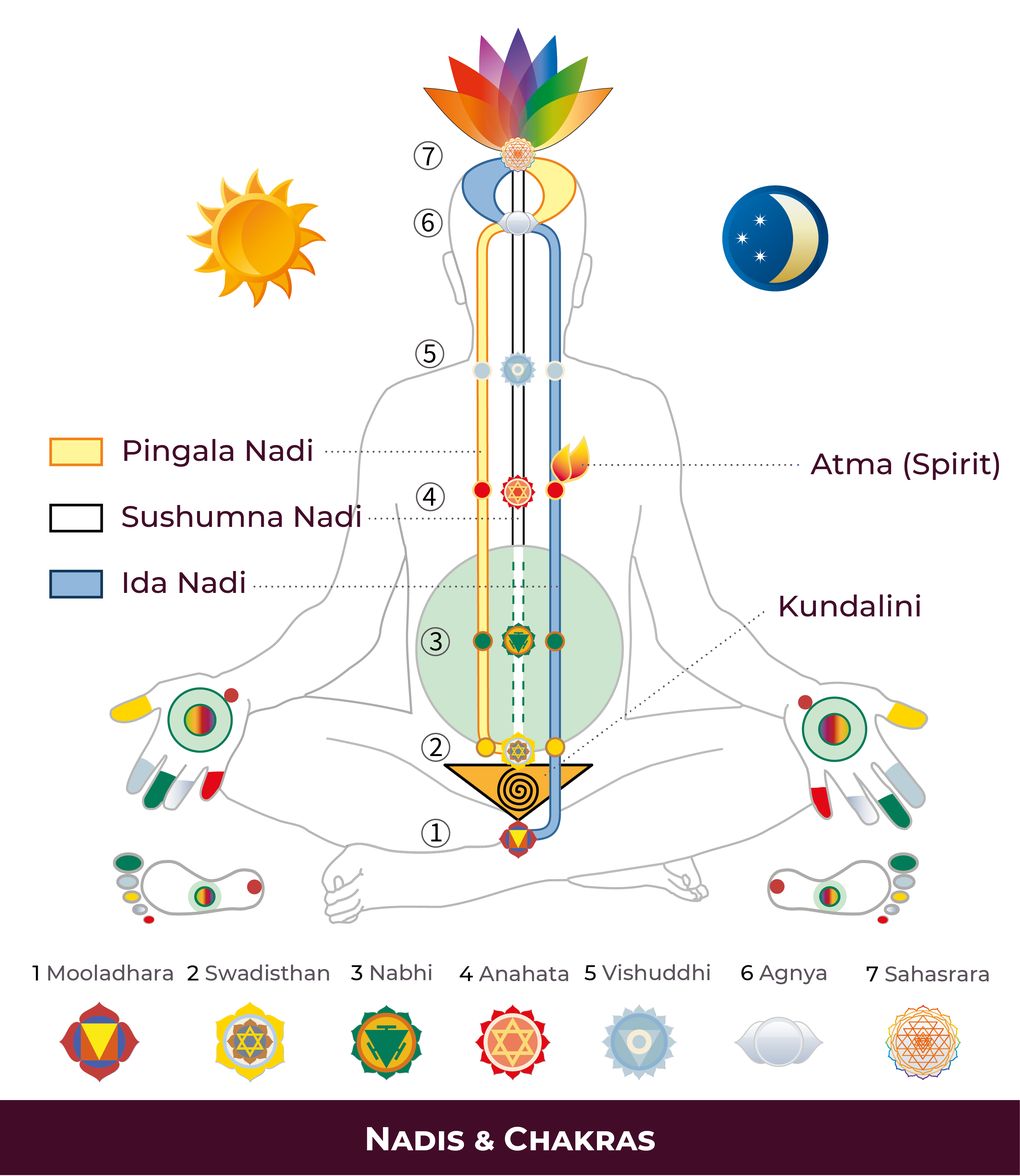
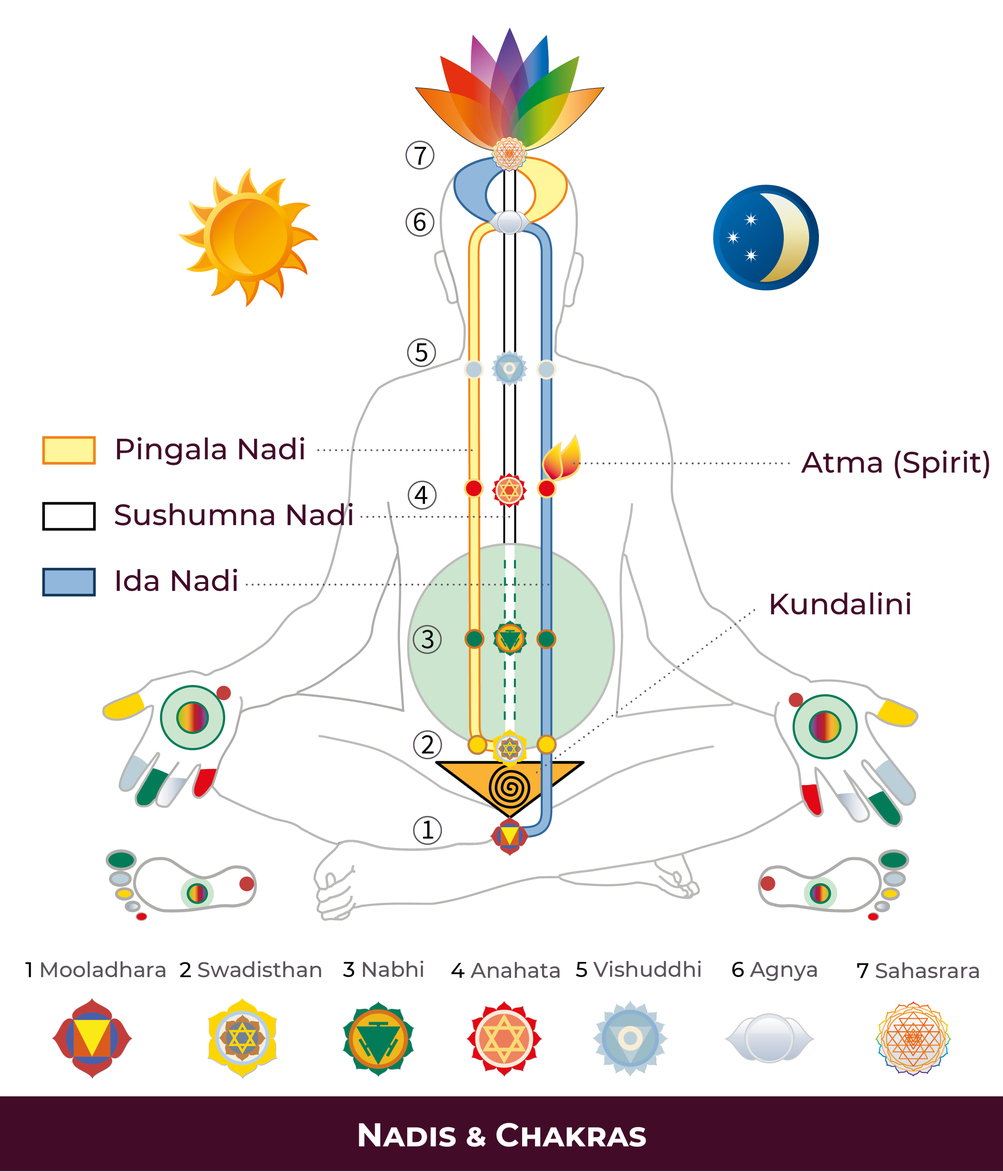
update meditation page

diff --git a/src/app/(auth)/meditate/page.tsx b/src/app/(auth)/meditate/page.tsx
@@ -22,22 +22,19 @@ const content = {
       ['Join Guided Online Meditation', 'Experience live and recorded guided meditations to deepen your practice.', 'Start Guided Meditation'],
       ['21 Days Meditation Path', 'Deepen your meditation experience through a structured 21-day journey in the We Meditate app.', ''],
     ],
-    stepsHeader: ['Daily Meditation', '10 simple steps to settle into meditation', 'Follow the flow gently. Each step is short, structured, and easy to return to, so the practice feels calm rather than complicated.'],
+    stepsHeader: ['Balancing Our Channels', 'Clear the subtle system through three guided balancing steps', 'Use these three simple balancing practices to settle the left, right, and central channels before meditation.'],
     steps: [
-      ['Prepare your space', 'Choose a quiet place where you can sit undisturbed for 10 minutes.'],
-      ['Sit comfortably', 'Remove your shoes and sit on a chair or on the floor in a natural posture.'],
-      ['Open your hands', 'Rest both hands on your lap with palms facing upward and soften your shoulders.'],
-      ['Settle the breath', 'Take a few deep breaths, then allow your breathing to return to normal.'],
-      ['Use affirmations gently', 'If it helps, use simple affirmations softly without forcing the experience.'],
-      ['Lift attention upward', 'Keep your attention above the head and let thoughts pass without following them.'],
-      ['Release mental activity', 'If thoughts continue, say inwardly: not this thought, or I forgive everyone.'],
-      ['Notice the cool breeze', 'Observe any gentle cool sensation on the hands or above the fontanel area.'],
-      ['Rest in stillness', 'When the attention settles, leave it there and enjoy the silence.'],
-      ['Practice every day', 'Meditate daily for 10 minutes to deepen and stabilize the experience.'],
+      ['Clearing the left channel', 'Cleaning the left channel helps remove the tendency to become over-emotional and dwell in the past.', '/meditation-steps/1.png', 'Keep the left hand on the lap, and the right hand on the earth. Keep your attention on the left palm.', 'Affirmation: Mother please clear my left channel and remove all negativities through Mother Earth.'],
+      ['Clearing the right channel', 'Cleaning the right side helps reduce over-planning, mental strain, and stressed thoughts.', '/meditation-steps/2.png', 'Keep the right hand on the lap, and bend the left arm toward the sky. Keep your attention on the right palm.', 'Affirmation: Mother please clear my right channel and remove all negativities through Sky element.'],
+      ['Clearing the central channel', 'Once both channels are cleansed, it becomes easier to remain in meditation and settle into the center.', '/meditation-steps/3.png', 'Keep both hands on the lap and place your attention on the top of the head, the Sahasrara.', 'Affirmation: Mother please give us the state of thoughtless awareness and let us be in joy.'],
     ],
-    subtleHeader: ['Subtle Balance', 'Balance the subtle system and return to the present', 'Thoughts often move toward the past or the future. These balancing techniques help you settle back into the center and support a steadier meditation.'],
-    left: ['Left-side balancing', 'When emotions feel heavy', 'Hold the left hand toward a candle with the palm facing upward.', 'Place the right hand naturally toward the earth.', 'Use this when you feel lethargic, nostalgic, lonely, or over-focused on the past.'],
-    right: ['Right-side balancing', 'When the mind feels overactive', 'Hold the right hand toward a candle with the palm facing upward.', 'Bend the left arm with fingers pointing upward and the palm facing backward.', 'Use this when you feel tense, over-planned, rushed, aggressive, or caught in future thinking.'],
+    subtleHeader: ['Subtle Balance', 'Understand the subtle system', 'The subtle system image below shows the channels and chakras that support meditation, balance, and inner ascent.'],
+    subtleChannels: [
+      ['Left Channel', 'The left channel governs our emotions, desires, and our connection with the past. By balancing this channel we can remove any weight from our past which is holding us back, allowing us to feel motivated and to believe in ourselves.'],
+      ['Right Channel', 'The right channel corresponds to all of our thoughts, actions and our connection with the future. By cleansing this channel we can calm down our thoughts and remove any worries about the future.'],
+      ['Central Channel', 'The central channel is the path of balance and ascent. When we raise our Kundalini through this channel we are guided towards a higher awareness which facilitates our spiritual evolution and allows us to reach a blissful state which is beyond our mental understanding.'],
+    ],
+    resourcesHeader: ['Practice Resources', 'Continue with guided support and home practice', 'Use these resources to keep your meditation consistent, go deeper with guided sessions, and stay connected to the practice day by day.'],
     stores: ['Download on App Store', 'Get it on Google Play'],
   },
   te: {
@@ -54,22 +51,19 @@ const content = {
       ['ఆన్లైన్ మార్గదర్శిత ధ్యానంలో చేరండి', 'మార్గదర్శిత ప్రత్యక్ష మరియు రికార్డ్ చేయబడిన ధ్యానాలతో మీ సాధనను లోతుగా చేయండి.', 'మార్గదర్శిత ధ్యానం ప్రారంభించండి'],
       ['21 రోజుల ధ్యాన మార్గం', 'We Meditate యాప్లో రూపొందించిన 21 రోజుల ప్రణాళిక ద్వారా మీ ధ్యానాన్ని మరింత లోతుగా అనుభవించండి.', ''],
     ],
-    stepsHeader: ['నిత్య ధ్యానం', 'ధ్యానంలో స్థిరపడేందుకు 10 సులభ దశలు', 'మృదువుగా ప్రవాహాన్ని అనుసరించండి. ప్రతి దశ చిన్నది, స్పష్టమైనది, మళ్లీ మళ్లీ సులభంగా ఆచరించదగినది.'],
+    stepsHeader: ['మన నాళాల సమతుల్యత', 'మూడు మార్గదర్శిత దశలతో సూక్ష్మ వ్యవస్థను శుభ్రపరచండి', 'ధ్యానం ముందు ఎడమ, కుడి, మధ్య నాళాలను సమతుల్యం చేసేందుకు ఈ మూడు సులభమైన పద్ధతులను ఉపయోగించండి.'],
     steps: [
-      ['మీ స్థలాన్ని సిద్ధం చేసుకోండి', '10 నిమిషాలు అంతరాయం లేకుండా కూర్చునే ప్రశాంత ప్రదేశాన్ని ఎంచుకోండి.'],
-      ['సౌకర్యంగా కూర్చోండి', 'చెప్పులు తీసి, కుర్చీపై లేదా నేలపై సహజమైన భంగిమలో కూర్చోండి.'],
-      ['చేతులను తెరవండి', 'రెండు చేతులను ఒడిలో అరచేతులు పైకి ఉండేలా ఉంచి భుజాలను సడలించండి.'],
-      ['శ్వాసను స్థిరపరచండి', 'కొన్ని లోతైన శ్వాసలు తీసుకుని ఆపై శ్వాసను సహజ స్థితికి వదలండి.'],
-      ['ఆఫర్మేషన్లు మృదువుగా వాడండి', 'అవసరమైతే బలవంతం చేయకుండా సరళమైన ఆఫర్మేషన్లను మృదువుగా చెప్పండి.'],
-      ['ధ్యాసను పైకి తీసుకెళ్ళండి', 'తలపై భాగంపై ధ్యాస ఉంచి ఆలోచనలు వచ్చినా వాటిని అనుసరించకుండా విడిచేయండి.'],
-      ['మానసిక చలనం విడదీయండి', 'ఆలోచనలు కొనసాగితే మనసులోనే: ఈ ఆలోచన కాదు, లేదా నేను అందరినీ క్షమిస్తున్నాను అని చెప్పండి.'],
-      ['చల్లని గాలి గమనించండి', 'చేతులపై లేదా తలపై మృదువైన చల్లని అనుభూతి ఉందో గమనించండి.'],
-      ['నిశ్చలతలో నిలిచి ఉండండి', 'ధ్యాస స్థిరపడినప్పుడు అదే స్థితిలో ఉండి ఆ నిశ్శబ్దాన్ని ఆస్వాదించండి.'],
-      ['ప్రతి రోజు సాధన చేయండి', 'ధ్యాన అనుభవం లోతుగా, స్థిరంగా మారేందుకు ప్రతి రోజు 10 నిమిషాలు సాధన చేయండి.'],
+      ['ఎడమ నాళం శుభ్రపరచడం', 'ఎడమ నాళాన్ని శుభ్రపరచడం వల్ల అధిక భావోద్వేగం మరియు గతంలోనే ఉండిపోవడం తగ్గుతుంది.', '/meditation-steps/1.png', 'ఎడమ చేయిని ఒడిలో ఉంచి, కుడి చేయిని భూమి వైపు ఉంచండి. ఎడమ అరపై ధ్యాస ఉంచండి.', 'ఆఫర్మేషన్: మాతాజీ, దయచేసి నా ఎడమ నాళాన్ని శుభ్రపరచి మాతృభూమి ద్వారా అన్ని ప్రతికూలతలను తొలగించండి.'],
+      ['కుడి నాళం శుభ్రపరచడం', 'కుడి వైపు శుభ్రపరచడం వల్ల అధిక ప్రణాళిక, ఒత్తిడిగల ఆలోచనలు తగ్గుతాయి.', '/meditation-steps/2.png', 'కుడి చేయిని ఒడిలో ఉంచి, ఎడమ చేయిని పైకి వంచి ఆకాశం వైపు ఉంచండి. కుడి అరపై ధ్యాస ఉంచండి.', 'ఆఫర్మేషన్: మాతాజీ, దయచేసి నా కుడి నాళాన్ని శుభ్రపరచి ఆకాశ తత్వం ద్వారా అన్ని ప్రతికూలతలను తొలగించండి.'],
+      ['మధ్య నాళం శుభ్రపరచడం', 'ఈ రెండు నాళాలు శుభ్రమైన తర్వాత ధ్యాన స్థితిలో ఉండటం మరింత సులభమవుతుంది.', '/meditation-steps/3.png', 'రెండు చేతులను ఒడిలో ఉంచి, మీ ధ్యాసను తల పైభాగమైన సహస్రారంపై ఉంచండి.', 'ఆఫర్మేషన్: మాతాజీ, దయచేసి మాకు నిర్విచార చైతన్య స్థితిని ప్రసాదించి ఆనందంలో నిలిపించండి.'],
     ],
-    subtleHeader: ['సూక్ష్మ సమతుల్యత', 'సూక్ష్మ వ్యవస్థను సమతుల్యం చేసి వర్తమానానికి తిరిగి రండి', 'ఆలోచనలు గతం లేదా భవిష్యత్తు వైపు కదులుతుంటాయి. ఈ బ్యాలెన్సింగ్ పద్ధతులు మిమ్మల్ని మళ్లీ మధ్యలోకి తీసుకురావడంలో సహాయపడతాయి.'],
-    left: ['ఎడమ వైపు బ్యాలెన్సింగ్', 'భావోద్వేగాలు భారంగా అనిపించినప్పుడు', 'ఎడమ చేయిని అరచేతి పైకి ఉంచి దీపానికి ఎదురుగా పట్టండి.', 'కుడి చేయిని సహజంగా భూమి వైపు ఉంచండి.', 'నిస్సత్తువ, గతస్మరణ, ఒంటరితనం, లేదా గతంపై ఎక్కువ ధ్యాస ఉన్నప్పుడు ఇది సహాయపడుతుంది.'],
-    right: ['కుడి వైపు బ్యాలెన్సింగ్', 'మనసు అతిగా క్రియాశీలంగా ఉన్నప్పుడు', 'కుడి చేయిని అరచేతి పైకి ఉంచి దీపానికి ఎదురుగా పట్టండి.', 'ఎడమ చేయిని మడిచి వేళ్లు పైకి, అరచేతి వెనక్కి ఉండేలా ఉంచండి.', 'తీవ్ర ఒత్తిడి, అతిగా ప్రణాళిక, తొందర, దూకుడు, లేదా భవిష్యత్ ఆలోచనల్లో ఇరుక్కున్నప్పుడు ఇది ఉపయోగపడుతుంది.'],
+    subtleHeader: ['సూక్ష్మ సమతుల్యత', 'సూక్ష్మ వ్యవస్థను అర్థం చేసుకోండి', 'క్రింద ఉన్న సూక్ష్మ వ్యవస్థ చిత్రం ధ్యానం, సమతుల్యత, మరియు అంతరారూఢికి మద్దతు ఇచ్చే నాళాలు మరియు చక్రాలను చూపిస్తుంది.'],
+    subtleChannels: [
+      ['ఎడమ నాళం', 'ఎడమ నాళం మన భావోద్వేగాలు, కోరికలు, మరియు గతంతో ఉన్న అనుబంధాన్ని నియంత్రిస్తుంది. ఈ నాళాన్ని సమతుల్యం చేయడం ద్వారా మనల్ని వెనక్కి లాగుతున్న గతభారాన్ని తొలగించి, మళ్లీ ఉత్సాహంతో ముందుకు సాగేందుకు, మనపై నమ్మకం పెంచుకునేందుకు సహాయపడుతుంది.'],
+      ['కుడి నాళం', 'కుడి నాళం మన ఆలోచనలు, చర్యలు, మరియు భవిష్యత్తుతో ఉన్న అనుబంధాన్ని సూచిస్తుంది. ఈ నాళాన్ని శుభ్రపరచడం ద్వారా ఆలోచనలను ప్రశాంతపరచి, భవిష్యత్తుపై ఉన్న ఆందోళనలను తగ్గించవచ్చు.'],
+      ['మధ్య నాళం', 'మధ్య నాళం సమతుల్యత మరియు ఆరూఢి మార్గం. ఈ నాళం ద్వారా మన కుండలిని ఆరూఢి చెందినప్పుడు, అది మనల్ని ఉన్నతమైన చైతన్య స్థితికి నడిపిస్తుంది. అది ఆధ్యాత్మిక వికాసాన్ని సులభతరం చేసి, మనసుకు అతీతమైన ఆనంద స్థితికి చేరుస్తుంది.'],
+    ],
+    resourcesHeader: ['సాధన వనరులు', 'మార్గదర్శిత సహాయం మరియు ఇంటి సాధనతో కొనసాగండి', 'మీ ధ్యానాన్ని నియమితంగా కొనసాగించడానికి, మార్గదర్శిత సెషన్లతో లోతుగా అనుభవించడానికి, మరియు రోజువారీ సాధనతో అనుసంధానంగా ఉండడానికి ఈ వనరులను ఉపయోగించండి.'],
     stores: ['యాప్ స్టోర్లో డౌన్లోడ్ చేయండి', 'గూగుల్ ప్లేలో పొందండి'],
   },
 } as const;
@@ -108,10 +102,10 @@ export default function MeditatePage() {
   return (
     <main className="bg-[color:var(--bg)]">
       <SeoJsonLd json={[{ '@context': 'https://schema.org', '@type': 'WebPage', name: copy.heroTitle, url: absoluteUrl('/meditate'), description: copy.heroBody }]} />
-      <section className="relative overflow-hidden"><div className="absolute inset-0 bg-[radial-gradient(circle_at_top_left,_color-mix(in_srgb,var(--accent-200)_55%,transparent),_transparent_42%),linear-gradient(180deg,_color-mix(in_srgb,var(--surface-2)_76%,transparent),_var(--bg)_58%,_var(--bg))]" /><div className="relative mx-auto grid max-w-6xl items-center gap-12 px-6 py-16 md:py-20 lg:grid-cols-[1.1fr_0.9fr] lg:px-8 lg:py-24"><div><p className="text-xs font-semibold uppercase tracking-[0.28em] text-[color:var(--muted)]">{copy.heroEyebrow}</p><h1 className="mt-5 text-4xl font-semibold tracking-tight text-[color:var(--ink)] md:text-5xl lg:text-6xl">{copy.heroTitle}</h1><p className="mt-6 max-w-2xl text-base leading-8 text-[color:var(--muted)] md:text-lg">{copy.heroBody}</p><div className="mt-8 grid gap-3 text-sm text-[color:var(--muted)] sm:grid-cols-2"><div className="rounded-2xl border border-[color:var(--border)] bg-[color:var(--surface)]/80 px-4 py-4 backdrop-blur-sm">{copy.need}</div><div className="rounded-2xl border border-[color:var(--border)] bg-[color:var(--surface)]/80 px-4 py-4 backdrop-blur-sm">{copy.rhythm}</div></div><div className="mt-8 flex flex-wrap gap-3"><a href="#daily-steps" className={heroButtonVariants.primary}>{copy.start}</a><a href="/Meditation-and-Balancing-Guide.pdf" target="_blank" rel="noopener noreferrer" className={heroButtonVariants.secondary}>{copy.guide}</a><a href="https://wemeditate.com/meditations" target="_blank" rel="noopener noreferrer" className={heroButtonVariants.tertiary}>{copy.online}</a></div></div><div className="relative mx-auto w-full max-w-[460px]"><div className="absolute inset-6 rounded-[32px] bg-[radial-gradient(circle_at_top,_color-mix(in_srgb,var(--accent)_28%,transparent),_transparent_58%)] blur-2xl" /><div className="relative overflow-hidden rounded-[32px] border border-[color:var(--border)] bg-[color:var(--surface)]/76 p-3 shadow-soft backdrop-blur-sm"><Image src="/meditate-hero.png" alt="Calm meditation illustration" width={1200} height={850} className="h-auto w-full rounded-[24px] object-cover" priority /></div></div></div></section>
-      <section className="py-16"><div className="mx-auto max-w-6xl px-6 lg:px-8"><div className="grid gap-6 lg:grid-cols-3">{featureCards.map((card) => <FeatureCard key={card.title} {...card} />)}</div></div></section>
-      <section id="daily-steps" className="scroll-mt-24 py-16"><div className="mx-auto max-w-6xl px-6 lg:px-8"><div className="rounded-[32px] border border-[color:var(--border)] bg-[linear-gradient(180deg,_color-mix(in_srgb,var(--surface)_86%,transparent),_color-mix(in_srgb,var(--surface-2)_92%,transparent))] p-6 shadow-sm md:p-10"><SectionHeader eyebrow={copy.stepsHeader[0]} title={copy.stepsHeader[1]} description={copy.stepsHeader[2]} /><div className="mt-10 grid gap-6 md:grid-cols-2 xl:grid-cols-3">{copy.steps.map((step, index) => <article key={step[0]} className="group rounded-[24px] border border-[color:var(--border)] bg-[color:var(--surface)]/86 p-5 transition-all duration-300 hover:-translate-y-1 hover:border-[color:var(--focus)] hover:shadow-soft md:p-6"><div className="flex items-start gap-4"><span className="inline-flex h-11 w-11 shrink-0 items-center justify-center rounded-full bg-[color:var(--accent-200)] text-sm font-semibold text-[color:var(--ink)]">{String(index + 1).padStart(2, '0')}</span><div><h3 className="text-lg font-semibold text-[color:var(--ink)]">{step[0]}</h3><p className="mt-2 text-sm leading-7 text-[color:var(--muted)]">{step[1]}</p></div></div></article>)}</div></div></div></section>
-      <section className="py-16"><div className="mx-auto max-w-6xl px-6 lg:px-8"><div className="grid gap-10 lg:grid-cols-[0.92fr_1.08fr] lg:items-start"><div className="rounded-[32px] border border-[color:var(--border)] bg-[linear-gradient(135deg,_color-mix(in_srgb,var(--surface)_94%,transparent),_color-mix(in_srgb,var(--surface-2)_90%,transparent))] p-6 shadow-sm md:p-8"><SectionHeader eyebrow={copy.subtleHeader[0]} title={copy.subtleHeader[1]} description={copy.subtleHeader[2]} /></div><div className="overflow-hidden rounded-[32px] border border-[color:var(--border)] bg-[color:var(--surface)] p-4 shadow-soft md:p-5"><Image src="/subtle-system.png" alt="Nadis and chakras subtle system diagram" width={1800} height={1800} className="h-auto w-full rounded-[24px] bg-[color:var(--surface)]/80" /></div></div><div className="mt-8 grid gap-6 lg:grid-cols-2"><article className="rounded-[28px] border border-[color:var(--border)] bg-[color:var(--surface)] p-6 shadow-sm transition-all duration-300 hover:-translate-y-1 hover:shadow-soft md:p-8"><div className="inline-flex rounded-full border border-[color:var(--border)] bg-[color:var(--surface-2)] px-4 py-2 text-xs font-semibold uppercase tracking-[0.22em] text-[color:var(--muted)]">{copy.left[0]}</div><div className="mx-auto mt-6 max-w-xs rounded-[24px] border border-[color:var(--border)] bg-[color:var(--surface-2)] p-2"><Image src="/balancing-left.png" alt="Left side balancing posture" width={800} height={1500} className="h-auto w-full rounded-[18px] object-contain" /></div><h3 className="mt-5 text-2xl font-semibold text-[color:var(--ink)]">{copy.left[1]}</h3><ul className="mt-5 space-y-3 text-sm leading-7 text-[color:var(--muted)] md:text-base"><li>• {copy.left[2]}</li><li>• {copy.left[3]}</li><li>• {copy.left[4]}</li></ul></article><article className="rounded-[28px] border border-[color:var(--border)] bg-[color:var(--surface)] p-6 shadow-sm transition-all duration-300 hover:-translate-y-1 hover:shadow-soft md:p-8"><div className="inline-flex rounded-full border border-[color:var(--border)] bg-[color:var(--surface-2)] px-4 py-2 text-xs font-semibold uppercase tracking-[0.22em] text-[color:var(--muted)]">{copy.right[0]}</div><div className="mx-auto mt-6 max-w-xs rounded-[24px] border border-[color:var(--border)] bg-[color:var(--surface-2)] p-2"><Image src="/balancing-right.png" alt="Right side balancing posture" width={800} height={1500} className="h-auto w-full rounded-[18px] object-contain" /></div><h3 className="mt-5 text-2xl font-semibold text-[color:var(--ink)]">{copy.right[1]}</h3><ul className="mt-5 space-y-3 text-sm leading-7 text-[color:var(--muted)] md:text-base"><li>• {copy.right[2]}</li><li>• {copy.right[3]}</li><li>• {copy.right[4]}</li></ul></article></div></div></section>
+      <section className="relative overflow-hidden"><div className="absolute inset-0 bg-[radial-gradient(circle_at_top_left,_color-mix(in_srgb,var(--accent-200)_55%,transparent),_transparent_42%),linear-gradient(180deg,_color-mix(in_srgb,var(--surface-2)_76%,transparent),_var(--bg)_58%,_var(--bg))]" /><div className="relative mx-auto grid max-w-6xl items-center gap-12 px-6 py-16 md:py-20 lg:grid-cols-[1.1fr_0.9fr] lg:px-8 lg:py-24"><div><p className="text-xs font-semibold uppercase tracking-[0.28em] text-[color:var(--muted)]">{copy.heroEyebrow}</p><h1 className="mt-5 text-4xl font-semibold tracking-tight text-[color:var(--ink)] md:text-5xl lg:text-6xl">{copy.heroTitle}</h1><p className="mt-6 max-w-2xl text-base leading-8 text-[color:var(--muted)] md:text-lg">{copy.heroBody}</p><div className="mt-8 grid gap-3 text-sm text-[color:var(--muted)] sm:grid-cols-2"><div className="rounded-2xl border border-[color:var(--border)] bg-[color:var(--surface)]/80 px-4 py-4 backdrop-blur-sm">{copy.need}</div><div className="rounded-2xl border border-[color:var(--border)] bg-[color:var(--surface)]/80 px-4 py-4 backdrop-blur-sm">{copy.rhythm}</div></div></div><div className="relative mx-auto w-full max-w-[460px]"><div className="absolute inset-6 rounded-[32px] bg-[radial-gradient(circle_at_top,_color-mix(in_srgb,var(--accent)_28%,transparent),_transparent_58%)] blur-2xl" /><div className="relative overflow-hidden rounded-[32px] border border-[color:var(--border)] bg-[color:var(--surface)]/76 p-3 shadow-soft backdrop-blur-sm"><Image src="/meditate-hero.png" alt="Calm meditation illustration" width={1200} height={850} className="h-auto w-full rounded-[24px] object-cover" priority /></div></div></div></section>
+      <section className="py-16"><div className="mx-auto max-w-6xl px-6 lg:px-8"><div className="rounded-[32px] border border-[color:var(--border)] bg-[linear-gradient(135deg,_color-mix(in_srgb,var(--surface)_94%,transparent),_color-mix(in_srgb,var(--surface-2)_90%,transparent))] p-6 shadow-sm md:p-8"><div className="grid gap-10 lg:grid-cols-[0.92fr_1.08fr] lg:items-start"><div><SectionHeader eyebrow={copy.subtleHeader[0]} title={copy.subtleHeader[1]} description={copy.subtleHeader[2]} /><div className="mt-8 space-y-6">{copy.subtleChannels.map((channel) => <div key={channel[0]} className="border-t border-[color:var(--border)] pt-6 first:border-t-0 first:pt-0"><h3 className="text-2xl font-semibold text-[color:var(--ink)]">{channel[0]}</h3><p className="mt-3 text-sm leading-7 text-[color:var(--muted)] md:text-base">{channel[1]}</p></div>)}</div></div><div className="overflow-hidden rounded-[32px] border border-[color:var(--border)] bg-[color:var(--surface)] p-4 shadow-soft md:p-5"><Image src="/subtle-system.png" alt="Nadis and chakras subtle system diagram" width={1800} height={1800} className="h-auto w-full rounded-[24px] bg-[color:var(--surface)]/80" /></div></div></div></div></section>
+      <section id="daily-steps" className="scroll-mt-24 py-16"><div className="mx-auto max-w-6xl px-6 lg:px-8"><div className="rounded-[36px] border border-[color:var(--border)] bg-[linear-gradient(180deg,_color-mix(in_srgb,var(--surface)_90%,transparent),_color-mix(in_srgb,var(--surface-2)_96%,transparent))] p-6 shadow-sm md:p-10"><SectionHeader eyebrow={copy.stepsHeader[0]} title={copy.stepsHeader[1]} description={copy.stepsHeader[2]} /><div className="mt-10 grid gap-6 lg:grid-cols-3">{copy.steps.map((step, index) => <article key={step[0]} className="group overflow-hidden rounded-[28px] border border-[color:var(--border)] bg-[color:var(--surface)]/92 shadow-sm transition-all duration-300 hover:-translate-y-1 hover:shadow-soft"><div className="border-b border-[color:var(--border)] bg-[linear-gradient(180deg,_color-mix(in_srgb,var(--surface-2)_94%,transparent),_color-mix(in_srgb,var(--surface)_96%,transparent))] p-4"><div className="flex items-center gap-3"><span className="inline-flex h-11 w-11 shrink-0 items-center justify-center rounded-full bg-[color:var(--primary)] text-sm font-semibold text-white">{String(index + 1).padStart(2, '0')}</span><div><h3 className="text-xl font-semibold text-[color:var(--ink)]">{step[0]}</h3></div></div></div><div className="p-4 md:p-5"><div className="overflow-hidden rounded-[24px] border border-[color:var(--border)] bg-[color:var(--surface-2)]/72 p-3"><Image src={step[2]} alt={step[0]} width={900} height={900} className="h-auto w-full rounded-[18px] object-contain" /></div><p className="mt-5 text-sm leading-7 text-[color:var(--muted)] md:text-base">{step[1]}</p><div className="mt-5 rounded-[22px] border border-[color:var(--border)] bg-[color:var(--surface-2)]/70 p-4"><p className="text-sm leading-7 text-[color:var(--ink)] md:text-base">{step[3]}</p><p className="mt-4 text-sm leading-7 text-[color:var(--primary)] md:text-base">{step[4]}</p></div></div></article>)}</div></div></div></section>
+      <section className="py-16"><div className="mx-auto max-w-6xl px-6 lg:px-8"><div className="rounded-[32px] border border-[color:var(--border)] bg-[linear-gradient(180deg,_color-mix(in_srgb,var(--surface)_88%,transparent),_color-mix(in_srgb,var(--surface-2)_95%,transparent))] p-6 shadow-sm md:p-10"><SectionHeader eyebrow={copy.resourcesHeader[0]} title={copy.resourcesHeader[1]} description={copy.resourcesHeader[2]} /><div className="mt-10 grid gap-6 lg:grid-cols-3">{featureCards.map((card) => <FeatureCard key={card.title} {...card} />)}</div></div></div></section>
     </main>
   );
 }

diff --git a/src/components/YogiDashboardShell.tsx b/src/components/YogiDashboardShell.tsx
@@ -80,6 +80,7 @@ export default function YogiDashboardShell({
   }, []);
 
   const currentKey = activeKey || getActiveKey(pathname, hash);
+  const currentItem = navItems.find((item) => item.key === currentKey) ?? navItems[0];
 
   return (
     <div className="min-h-screen bg-[color:var(--bg)]">
@@ -93,9 +94,24 @@ export default function YogiDashboardShell({
 
         <div className="min-w-0 flex-1">
           <div className="sticky top-16 z-30 mb-6 lg:hidden">
-            <div className="space-y-3 rounded-[28px] border border-[color:var(--border)] bg-[color:var(--surface)]/95 p-4 shadow-soft backdrop-blur">
-              <SidebarIntro memberName={memberName} compact />
-              <SidebarNav currentKey={currentKey} mobile t={t} />
+            <div className="overflow-hidden rounded-[30px] border border-[color:var(--border)] bg-[linear-gradient(180deg,_color-mix(in_srgb,var(--surface)_94%,transparent),_color-mix(in_srgb,var(--surface-2)_96%,transparent))] shadow-[0_18px_40px_rgba(25,22,18,0.12)] backdrop-blur">
+              <div className="border-b border-[color:var(--border)] px-4 py-4">
+                <div className="flex items-start gap-3">
+                  <div className="flex h-11 w-11 shrink-0 items-center justify-center rounded-2xl bg-[color:var(--surface)] text-[color:var(--primary)] shadow-sm">
+                    {currentItem.icon}
+                  </div>
+                  <div className="min-w-0">
+                    <p className="text-[11px] font-semibold uppercase tracking-[0.22em] text-[color:var(--muted)]">{t('dashboard.mobile_current')}</p>
+                    <h2 className="mt-1 truncate text-lg font-semibold text-[color:var(--ink)]">{getNavLabel(t, currentItem.key)}</h2>
+                    <p className="mt-1 text-sm leading-6 text-[color:var(--muted)]">{getNavDescription(t, currentItem.key)}</p>
+                  </div>
+                </div>
+              </div>
+
+              <div className="px-3 py-3">
+                <p className="px-1 text-[11px] font-semibold uppercase tracking-[0.22em] text-[color:var(--muted)]">{t('dashboard.mobile_jump')}</p>
+                <SidebarNav currentKey={currentKey} mobile t={t} />
+              </div>
             </div>
           </div>
 
@@ -152,7 +168,7 @@ function SidebarNav({
   t: ReturnType<typeof useTranslations>;
 }) {
   return (
-    <nav className={mobile ? 'flex gap-3 overflow-x-auto pb-1' : 'space-y-2'}>
+    <nav className={mobile ? 'mt-3 flex gap-2 overflow-x-auto pb-1' : 'space-y-2'}>
       {navItems.map((item) => {
         const active = item.key === currentKey;
 
@@ -162,10 +178,10 @@ function SidebarNav({
             href={item.href}
             className={`border transition-colors ${
               mobile
-                ? `min-w-[240px] rounded-[22px] px-4 py-4 ${
+                ? `group min-w-fit shrink-0 rounded-[20px] px-3 py-3 ${
                     active
-                      ? 'border-[color:var(--primary)] bg-[color:var(--surface-2)] text-[color:var(--ink)]'
-                      : 'border-[color:var(--border)] bg-[color:var(--surface)] text-[color:var(--muted)]'
+                      ? 'border-[color:var(--primary)] bg-[color:var(--primary)] text-white shadow-[0_12px_28px_rgba(108,90,74,0.24)]'
+                      : 'border-[color:var(--border)] bg-[color:var(--surface)]/92 text-[color:var(--muted)]'
                   }`
                 : `block rounded-[22px] px-4 py-4 ${
                     active
@@ -174,13 +190,28 @@ function SidebarNav({
                   }`
             }`}
           >
-            <div className="flex items-start gap-3">
-              <span className="mt-0.5 shrink-0 text-[color:var(--primary)]">{item.icon}</span>
-              <div>
-                <p className="font-semibold text-[color:var(--ink)]">{getNavLabel(t, item.key)}</p>
-                <p className="mt-1 text-sm leading-6 text-[color:var(--muted)]">{getNavDescription(t, item.key)}</p>
+            {mobile ? (
+              <div className="flex items-center gap-2.5">
+                <span className={`flex h-9 w-9 shrink-0 items-center justify-center rounded-2xl ${
+                  active ? 'bg-white/18 text-white' : 'bg-[color:var(--surface-2)] text-[color:var(--primary)]'
+                }`}>
+                  {item.icon}
+                </span>
+                <span className={`max-w-[150px] text-sm font-semibold leading-5 ${
+                  active ? 'text-white' : 'text-[color:var(--ink)]'
+                }`}>
+                  {getNavLabel(t, item.key)}
+                </span>
               </div>
-            </div>
+            ) : (
+              <div className="flex items-start gap-3">
+                <span className="mt-0.5 shrink-0 text-[color:var(--primary)]">{item.icon}</span>
+                <div>
+                  <p className="font-semibold text-[color:var(--ink)]">{getNavLabel(t, item.key)}</p>
+                  <p className="mt-1 text-sm leading-6 text-[color:var(--muted)]">{getNavDescription(t, item.key)}</p>
+                </div>
+              </div>
+            )}
           </Link>
         );
       })}

diff --git a/src/lib/i18n.ts b/src/lib/i18n.ts
@@ -19,7 +19,7 @@ export const messages = {
     'nav.corporate': 'Corporate Wellness Programs',
     'nav.schools': 'School Meditation Programs',
     'nav.contact': 'Contact Us',
-    'nav.dashboard': 'Dashboard',
+    'nav.dashboard': 'Profile',
     'nav.admin': 'Admin',
     'nav.admin_dashboard': 'Admin Dashboard',
     'nav.sign_in': 'Sign In',
@@ -251,6 +251,8 @@ export const messages = {
     'dashboard.share_experience_desc': 'Offer a lived experience that may inspire others.',
     'dashboard.volunteer': 'Volunteer with us',
     'dashboard.volunteer_desc': 'Offer seva and stay available for collective support.',
+    'dashboard.mobile_current': 'Current section',
+    'dashboard.mobile_jump': 'Jump between sections',
     'event_regs.eyebrow': 'Event registrations',
     'event_regs.title': 'Your event registrations',
     'event_regs.body':
@@ -326,7 +328,7 @@ export const messages = {
     'nav.corporate': 'కార్పొరేట్ వెల్నెస్ ప్రోగ్రాములు',
     'nav.schools': 'పాఠశాల ధ్యాన ప్రోగ్రాములు',
     'nav.contact': 'మమ్మల్ని సంప్రదించండి',
-    'nav.dashboard': 'డ్యాష్బోర్డ్',
+    'nav.dashboard': 'ప్రొఫైల్',
     'nav.admin': 'అడ్మిన్',
     'nav.admin_dashboard': 'అడ్మిన్ డ్యాష్బోర్డ్',
     'nav.sign_in': 'సైన్ ఇన్',
@@ -558,6 +560,8 @@ export const messages = {
     'dashboard.share_experience_desc': 'ఇతరులకు ప్రేరణనిచ్చే నిజమైన అనుభవాన్ని పంచుకోండి.',
     'dashboard.volunteer': 'సేవలో భాగమవండి',
     'dashboard.volunteer_desc': 'సేవకు ముందుకు వచ్చి సమష్టికి అందుబాటులో ఉండండి.',
+    'dashboard.mobile_current': 'ప్రస్తుత విభాగం',
+    'dashboard.mobile_jump': 'విభాగాల మధ్య త్వరగా మారండి',
     'event_regs.eyebrow': 'ఈవెంట్ రిజిస్ట్రేషన్లు',
     'event_regs.title': 'మీ ఈవెంట్ రిజిస్ట్రేషన్లు',
     'event_regs.body':
